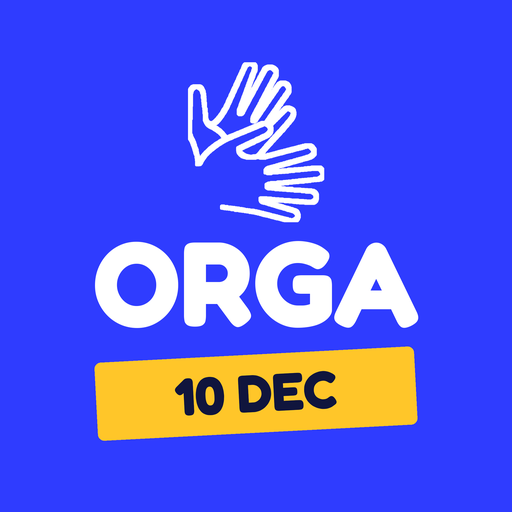
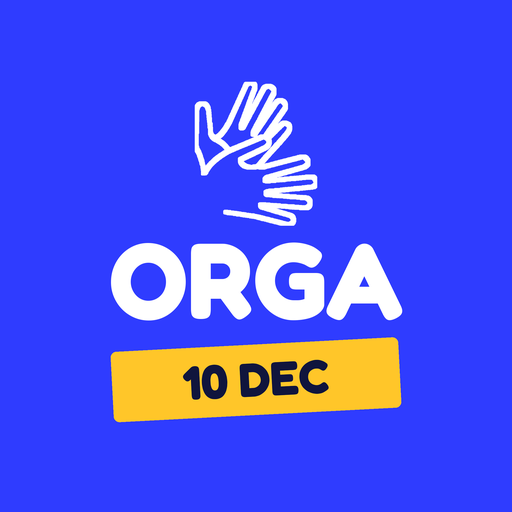
Icône Android : fond bleu plein (fiche d'appli avec le lien complet)
Claude-Session: https://claude.ai/code/session_01SybjLoFoFmwb8UUVsuGEHK

Changed region(s): [[0.1875, 0.4688, 0.8125, 0.875], [0.3438, 0.0938, 0.6562, 0.4375]]

diff --git a/equipe.html b/equipe.html
@@ -6,8 +6,23 @@
 <meta name="robots" content="noindex,nofollow">
 <meta name="referrer" content="no-referrer">
 <title>ORGA · équipe</title>
-<link rel="icon" type="image/png" href="icon-192.png?v=1">
-<link rel="apple-touch-icon" href="apple-touch-icon.png?v=1">
+<link rel="icon" type="image/png" href="icon-192.png?v=2">
+<link rel="apple-touch-icon" href="apple-touch-icon.png?v=2">
+<script>
+/* Fiche d'appli créée à l'ouverture : l'icône remplit tout le fond bleu sur Android,
+   et le raccourci garde le lien complet (avec la clé), sinon il ouvrirait « Lien incomplet ». */
+(function () { try {
+  var base = location.href.split("#")[0].replace(/[^\/]*$/, ""), h = location.hash.slice(1).split(".")[0].slice(0, 24);
+  var m = { name: "ORGA équipe · 10 Doigts en Cavale", short_name: "ORGA équipe", start_url: location.href, scope: base, id: base + "?app=equipe-" + encodeURIComponent(h),
+    display: "standalone", background_color: "#2f3cff", theme_color: "#2f3cff", lang: "fr",
+    icons: [{ src: base + "icon-192.png?v=2", sizes: "192x192", type: "image/png", purpose: "any" },
+            { src: base + "icon-512.png?v=2", sizes: "512x512", type: "image/png", purpose: "any" },
+            { src: base + "icon-maskable-512.png?v=2", sizes: "512x512", type: "image/png", purpose: "maskable" }] };
+  var l = document.createElement("link"); l.rel = "manifest";
+  l.href = "data:application/manifest+json;charset=utf-8," + encodeURIComponent(JSON.stringify(m));
+  document.head.appendChild(l);
+} catch (e) {} })();
+</script>
 <meta name="apple-mobile-web-app-title" content="ORGA équipe">
 <meta name="application-name" content="ORGA équipe">
 <meta name="theme-color" content="#2f3cff">
@@ -92,7 +107,7 @@ iframe.stat{position:absolute;width:1px;height:1px;border:0;opacity:0;pointer-ev
 </head>
 <body>
 <header class="head"><div class="in">
-  <img src="icon-192.png?v=1" alt="ORGA">
+  <img src="icon-192.png?v=2" alt="ORGA">
   <h1>Nos événements</h1>
   <span class="maj" id="maj"></span>
   <button class="hbtn" type="button" id="refresh" hidden>↻ Actualiser</button>

diff --git a/index.html b/index.html
@@ -4,8 +4,23 @@
 <meta charset="utf-8">
 <meta name="viewport" content="width=device-width,initial-scale=1,viewport-fit=cover">
 <meta name="robots" content="noindex,nofollow">
-<link rel="icon" type="image/png" href="icon-192.png?v=1">
-<link rel="apple-touch-icon" href="apple-touch-icon.png?v=1">
+<link rel="icon" type="image/png" href="icon-192.png?v=2">
+<link rel="apple-touch-icon" href="apple-touch-icon.png?v=2">
+<script>
+/* Fiche d'appli créée à l'ouverture : l'icône remplit tout le fond bleu sur Android,
+   et le raccourci garde le lien complet (avec la clé), sinon il ouvrirait « Lien incomplet ». */
+(function () { try {
+  var base = location.href.split("#")[0].replace(/[^\/]*$/, ""), h = location.hash.slice(1).split(".")[0].slice(0, 24);
+  var m = { name: "ORGA 10 Doigts en Cavale", short_name: "ORGA", start_url: location.href, scope: base, id: base + "?app=e-" + encodeURIComponent(h),
+    display: "standalone", background_color: "#2f3cff", theme_color: "#2f3cff", lang: "fr",
+    icons: [{ src: base + "icon-192.png?v=2", sizes: "192x192", type: "image/png", purpose: "any" },
+            { src: base + "icon-512.png?v=2", sizes: "512x512", type: "image/png", purpose: "any" },
+            { src: base + "icon-maskable-512.png?v=2", sizes: "512x512", type: "image/png", purpose: "maskable" }] };
+  var l = document.createElement("link"); l.rel = "manifest";
+  l.href = "data:application/manifest+json;charset=utf-8," + encodeURIComponent(JSON.stringify(m));
+  document.head.appendChild(l);
+} catch (e) {} })();
+</script>
 <meta name="apple-mobile-web-app-title" content="ORGA 10DEC">
 <meta name="application-name" content="ORGA 10DEC">
 <meta name="theme-color" content="#2f3cff">
